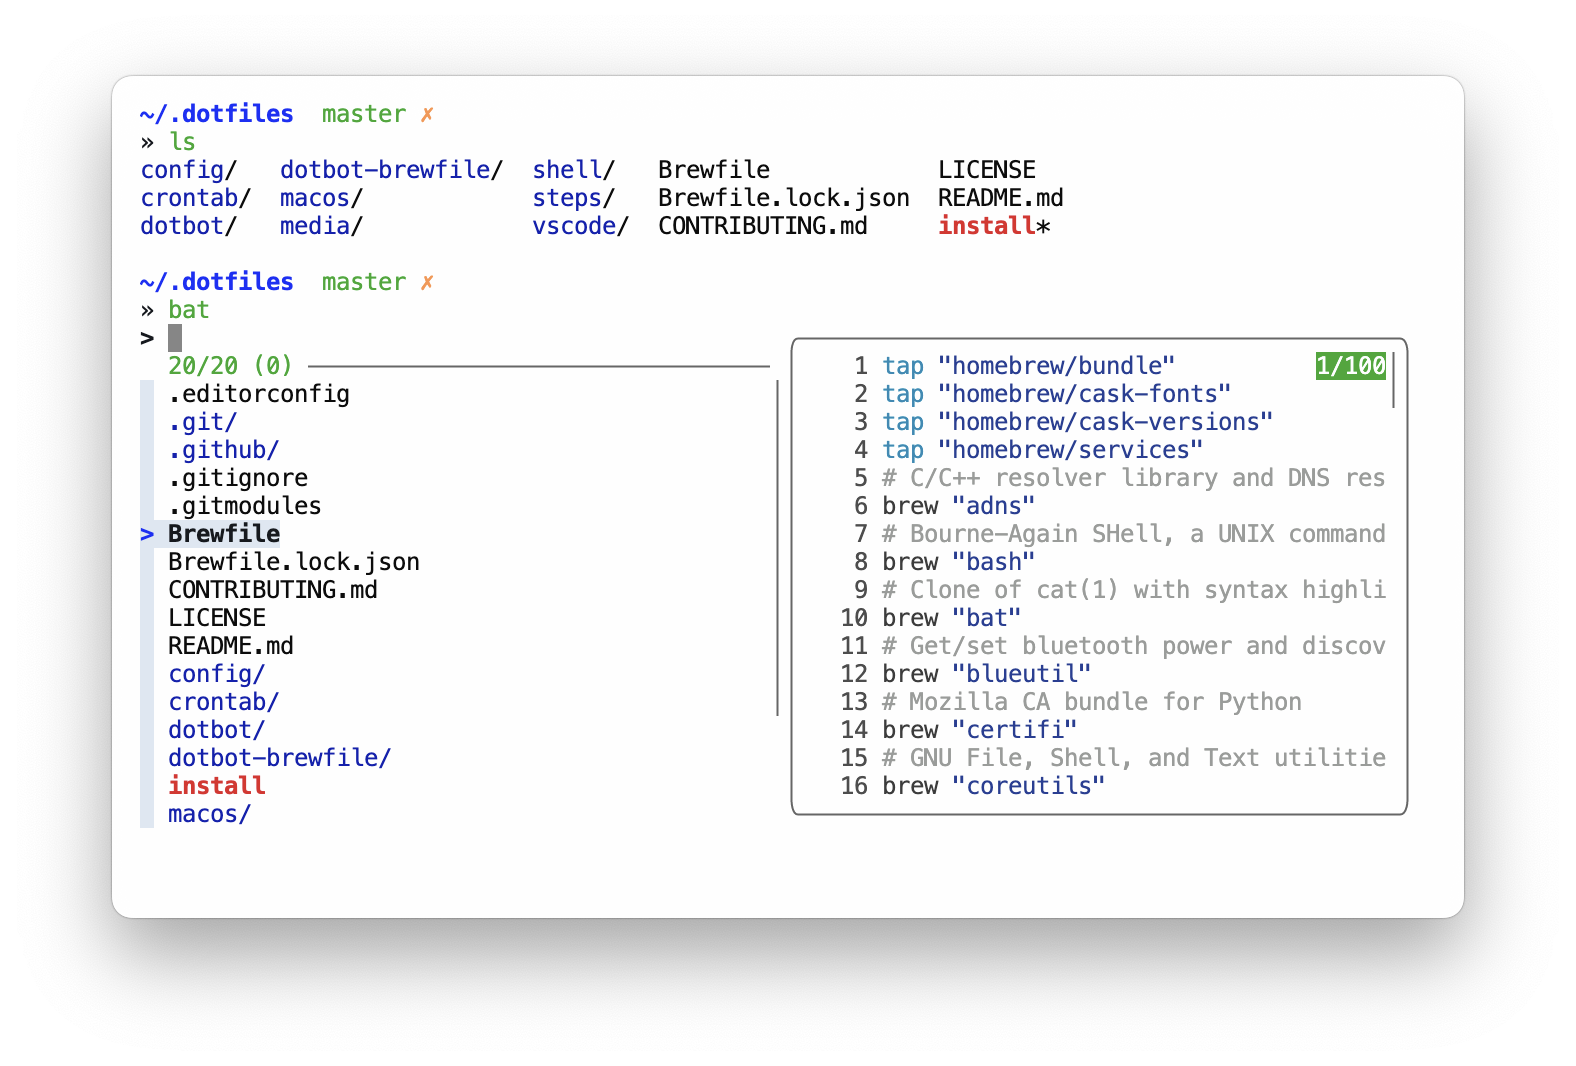
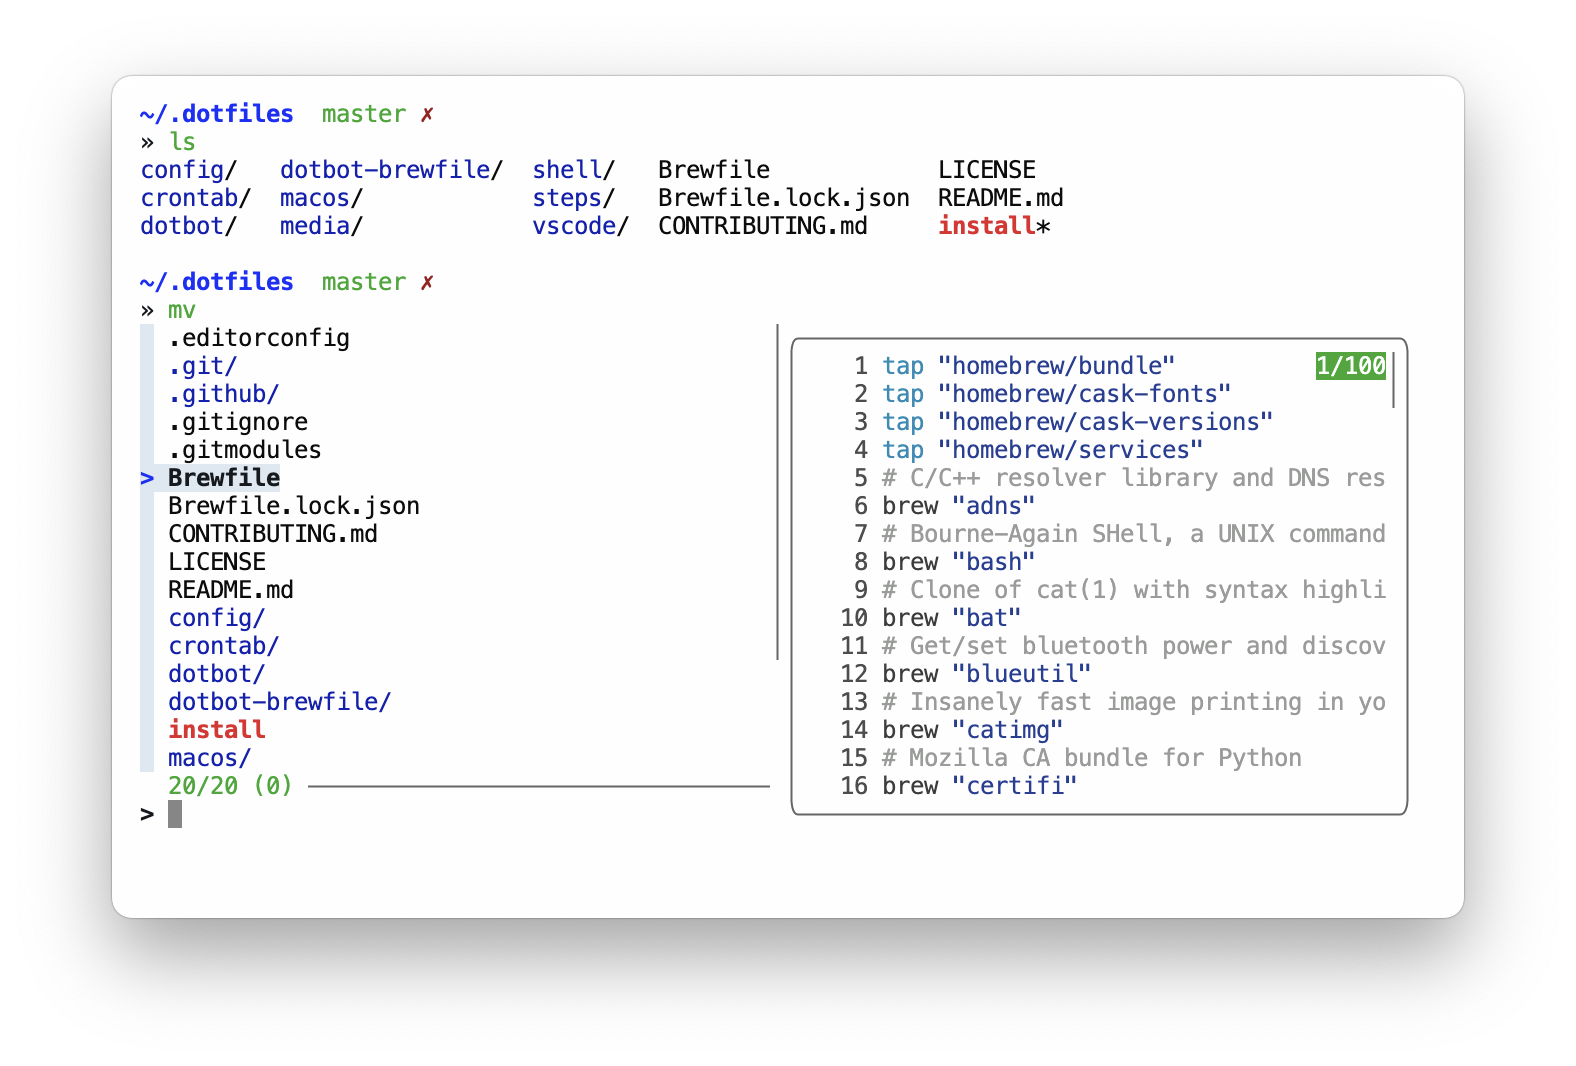
Remove CODESPACES, improve `z` compelitions

diff --git a/README.md b/README.md
@@ -99,6 +99,9 @@ I use `fzf` for several [code completion](https://github.com/sobolevn/dotfiles/b
 
 ![fzf-tab](https://raw.githubusercontent.com/sobolevn/dotfiles/master/media/fzf-tab.png)
 
+Multiple tools have custom completions like: `zoxide`, `make`, `killall`
+that work well with `fzf`'s preview feature.
+
 - `ctrl+r` allows me to fuzzy search command history
 
 ![fzf-history](https://raw.githubusercontent.com/sobolevn/dotfiles/master/media/fzf-history.png)
@@ -110,10 +113,6 @@ I use `fzf` for several [code completion](https://github.com/sobolevn/dotfiles/b
 - `ctrl+g` to work with [`fzf-git`](https://github.com/junegunn/fzf-git.sh)
 
 ![fzf-git](https://raw.githubusercontent.com/sobolevn/dotfiles/master/media/fzf-git.png)
-
-- press `space` + `tab` after `z <path>` to enable fuzzy finder for `zoxide`
-
-![fzf-zoxide](https://raw.githubusercontent.com/sobolevn/dotfiles/master/media/fzf-zoxide.png)
 
 
 ## Apps
